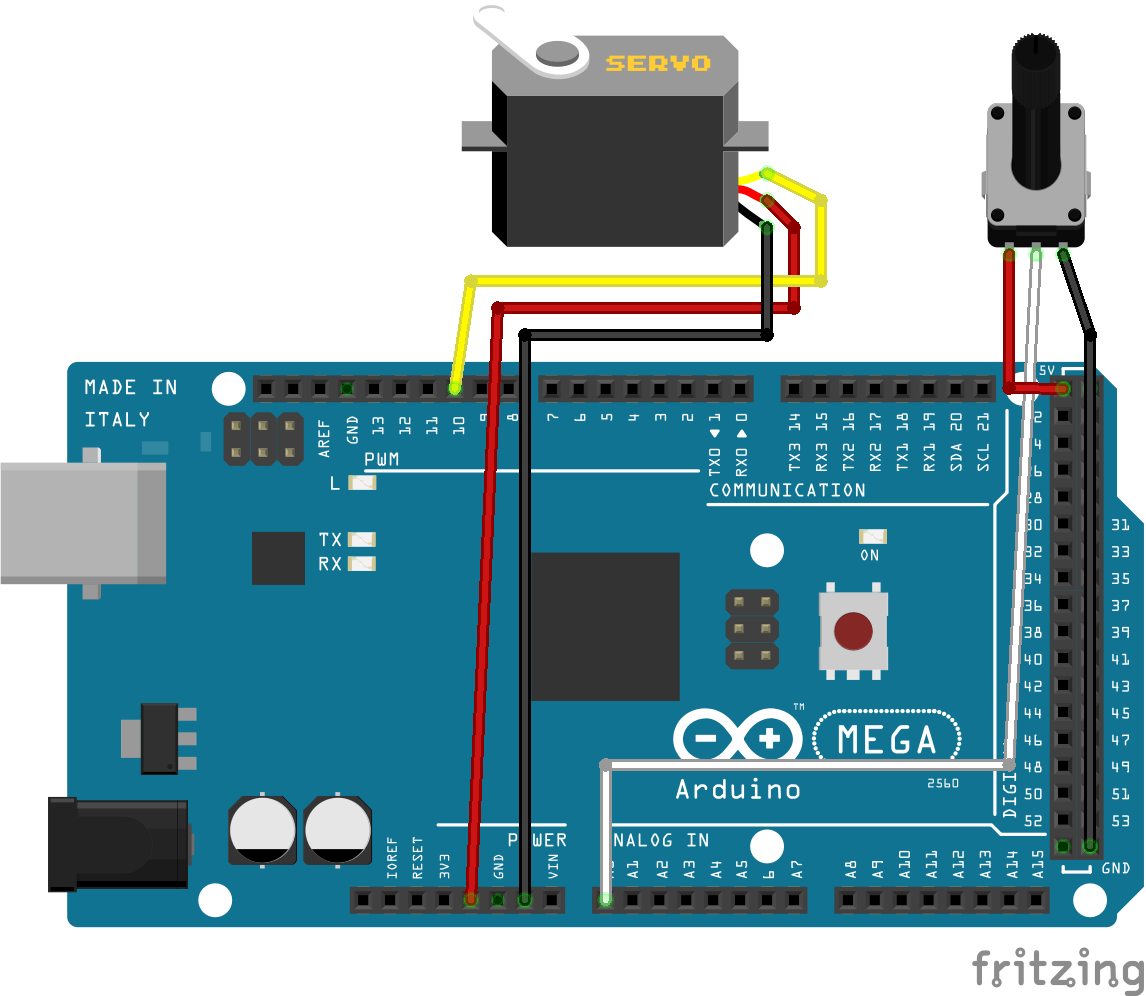
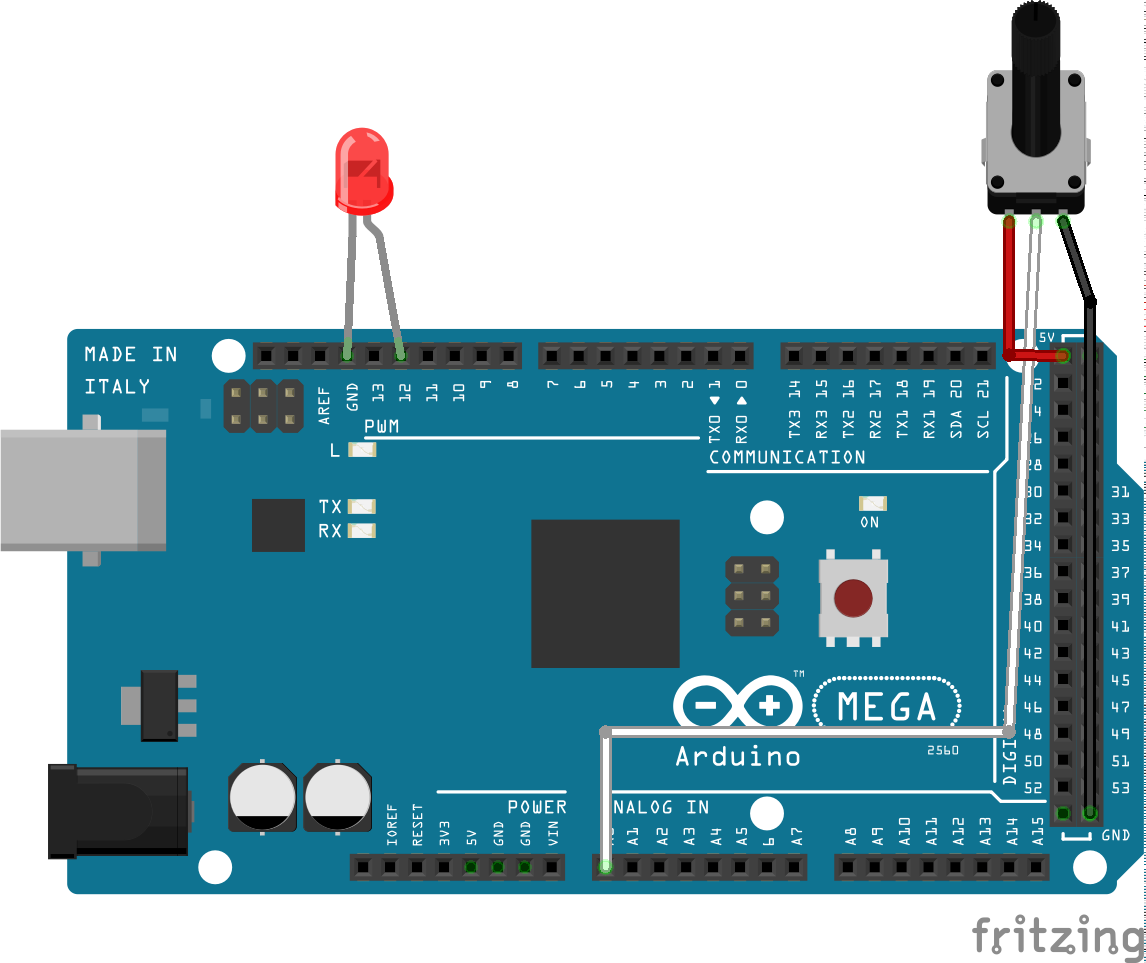
changed JF to potentiometer

diff --git a/app/index.js b/app/index.js
@@ -1,14 +1,15 @@
-var Readable = require('stream').Readable  
-var util = require('util')  
+var Readable = require('stream').Readable
+var util = require('util')
 var five = require('johnny-five')
+var line = require('lightning-line')
 
-util.inherits(MyStream, Readable)  
-function MyStream(opt) {  
+util.inherits(MyStream, Readable)
+function MyStream(opt) {
   Readable.call(this, opt)
 }
-MyStream.prototype._read = function() {};  
+MyStream.prototype._read = function() {};
 // hook in our stream
-process.__defineGetter__('stdin', function() {  
+process.__defineGetter__('stdin', function() {
   if (process.__stdin) return process.__stdin
   process.__stdin = new MyStream()
   return process.__stdin
@@ -16,55 +17,90 @@ process.__defineGetter__('stdin', function() {
 
 var board = new five.Board()
 
-var input = document.getElementById('position-input')
-var position = 90 
-var str = null
+var button = document.getElementById('start-button')
 var state = false
-var canvas = document.getElementById('servo-horn')
-var ctx = canvas.getContext('2d')
-horn(position-90, '#e7e7e7')
+var thresh = 4.25
+var xCoords = new Array(300).fill(0)
+var yCoords = new Array(300).fill(0)
+var yThresh = new Array(300).fill(thresh)
+var freq = 20
+var i = 0
+
+var el = document.body.appendChild(document.createElement('div'))
+var viz = new line(el, {
+  'series': [yThresh, yCoords],
+  'index': xCoords,
+  'xaxis': 'time (s)',
+  'yaxis': 'voltage (V)',
+  'thickness': [7 ,7],
+  'color': [[200, 0, 0], [255, 100, 0]]
+}, [], {'zoom': false})
+
+var yDomain = [0, 5]
+var xDomain = [-5, 0]
+
+var ySpread = Math.abs(yDomain[1] - yDomain[0]) || 1;
+var xSpread = Math.abs(xDomain[1] - xDomain[0]) || 1;
+
+viz.x.domain([xDomain[0] - 0.05 * xSpread, xDomain[1] + 0.05 * xSpread])
+viz.y.domain([yDomain[0] - 0.05 * ySpread, yDomain[1] + 0.05 * ySpread])
+
+viz.updateAxis()
+viz.updateData({
+  'series': [yThresh, yCoords],
+  'index': xCoords,
+  'thickness': [7 ,7],
+  'color': [[200, 0, 0], [255, 100, 0]]
+})
 
 board.on('ready', function() {
   document.getElementById('board-status').src = 'icons/ready.png'
-  input.className = 'input'
-  horn(position-90, '#505050')
+  button.className = 'button'
 
-  var servo = new five.Servo({pin: 10, startAt: 90, range: [45, 135]})
   var sensor = new five.Sensor({
-      pin: 'A0', 
-      freq: 25, 
-  });
-    
-  sensor.scale(45, 135).on('data', function (){
-    position = Math.round(sensor.value)
-    input.value = String(position) + String.fromCharCode(176)
+    pin: 'A0',
+    freq: freq,
+  })
 
-    servo.to(position)
-    draw(position-90, '#505050')
+  var led = new five.Led(13)
+
+  button.addEventListener('click', function () {
+    state = !state
+    if (state) {
+      button.innerHTML = 'Stop'
+    }
+    else {
+      button.innerHTML = 'Start'
+    }
+  })
+
+  sensor.scale(0, 5).on('data', function (){
+    if (state) {
+      yCoords.push(sensor.value)
+      xCoords.push(i*freq/1000)
+      yCoords.shift()
+      xCoords.shift()
+
+      xDomain = [-5+i*freq/1000, i*freq/1000]
+      xSpread = Math.abs(xDomain[1] - xDomain[0]) || 1;
+      viz.x.domain([xDomain[0] - 0.05 * xSpread, xDomain[1] + 0.05 * xSpread])
+
+      viz.updateAxis()
+      viz.updateData({
+        'series': [yThresh, yCoords],
+        'index': xCoords,
+        'thickness': [7 ,7],
+        'color': [[200, 0, 0], [255, 100, 0]]
+      })
+
+      if (sensor.value > thresh) {
+        led.on()
+        document.getElementById('led-status').src = 'icons/on.png'
+      } else {
+        led.off()
+        document.getElementById('led-status').src = 'icons/not-ready.png'
+      }
+      i++
+    }
   })
 })
-
-function horn(angle, color) {
-  ctx.fillStyle = color
-  ctx.setTransform(1, 0, 0, 1, 0, 0);
-  ctx.clearRect(0, 0, canvas.width, canvas.height)
-  ctx.translate(65,65);
-  ctx.rotate(angle * Math.PI / 180);
-  ctx.beginPath();
-  ctx.moveTo(-12, 0);
-  ctx.lineTo(-4,-60);
-  ctx.lineTo(4,-60);
-  ctx.lineTo(12, 0);
-  ctx.closePath();
-  ctx.fill();
-  ctx.beginPath();
-  ctx.arc(0,-60,4,0,2*Math.PI);
-  ctx.fill()
-  ctx.beginPath();
-  ctx.arc(0,0,12,0,2*Math.PI);
-  ctx.fill()
-  ctx.fillStyle = 'white'
-  ctx.beginPath();
-  ctx.arc(0,0,6,0,2*Math.PI);
-  ctx.fill()
-}

diff --git a/app/index.html b/app/index.html
@@ -2,34 +2,24 @@
 <html>
 <head>
 <style>
-
-.disabled {
-    opacity: 0.3;
-}
-
-.input {
+.button {
     background-color: #e7e7e7;
     border: black;
     color: #505050;
-    padding: 8px 8px;
+    padding: 8px 16px;
     text-align: center;
     text-decoration: none;
     display: inline-block;
     font-size: 16px;
+    cursor: pointer;
     border-radius: 12px;
-    width: 34px;
 }
 
-.input:focus {outline:0;}
+.button:focus {outline:0;}
 
-#outer {
-    position: relative;
-}
-
-#servo-horn {
-    position: absolute;
-    top: 0px;
-    left: 0px;
+.disabled {
+    opacity: 0.3;
+    cursor: not-allowed;
 }
 
 </style>
@@ -37,15 +27,14 @@
 
 <body>
 <p>
-	<input class="input disabled" type="text" id="position-input" value="90" />
+	<button class="button disabled" id="start-button">Start</button>
+    &nbsp &nbsp
+    <img src="icons/not-ready.png" alt="led" id="led-status"
+    height="22" width="22">
+
+    <img src="icons/not-ready.png" alt="board" id="board-status"
+    height="22" width="22" align="right">
 </p>
-
-<div id='outer'>
-    <img src="icons/servo.png" alt="board" id="servo" height="405" width="573">
-    <canvas id="servo-horn" width="140" height="95"> </canvas>
-</div>
-
-
 
 <script src="index.js"></script>
 </body>
